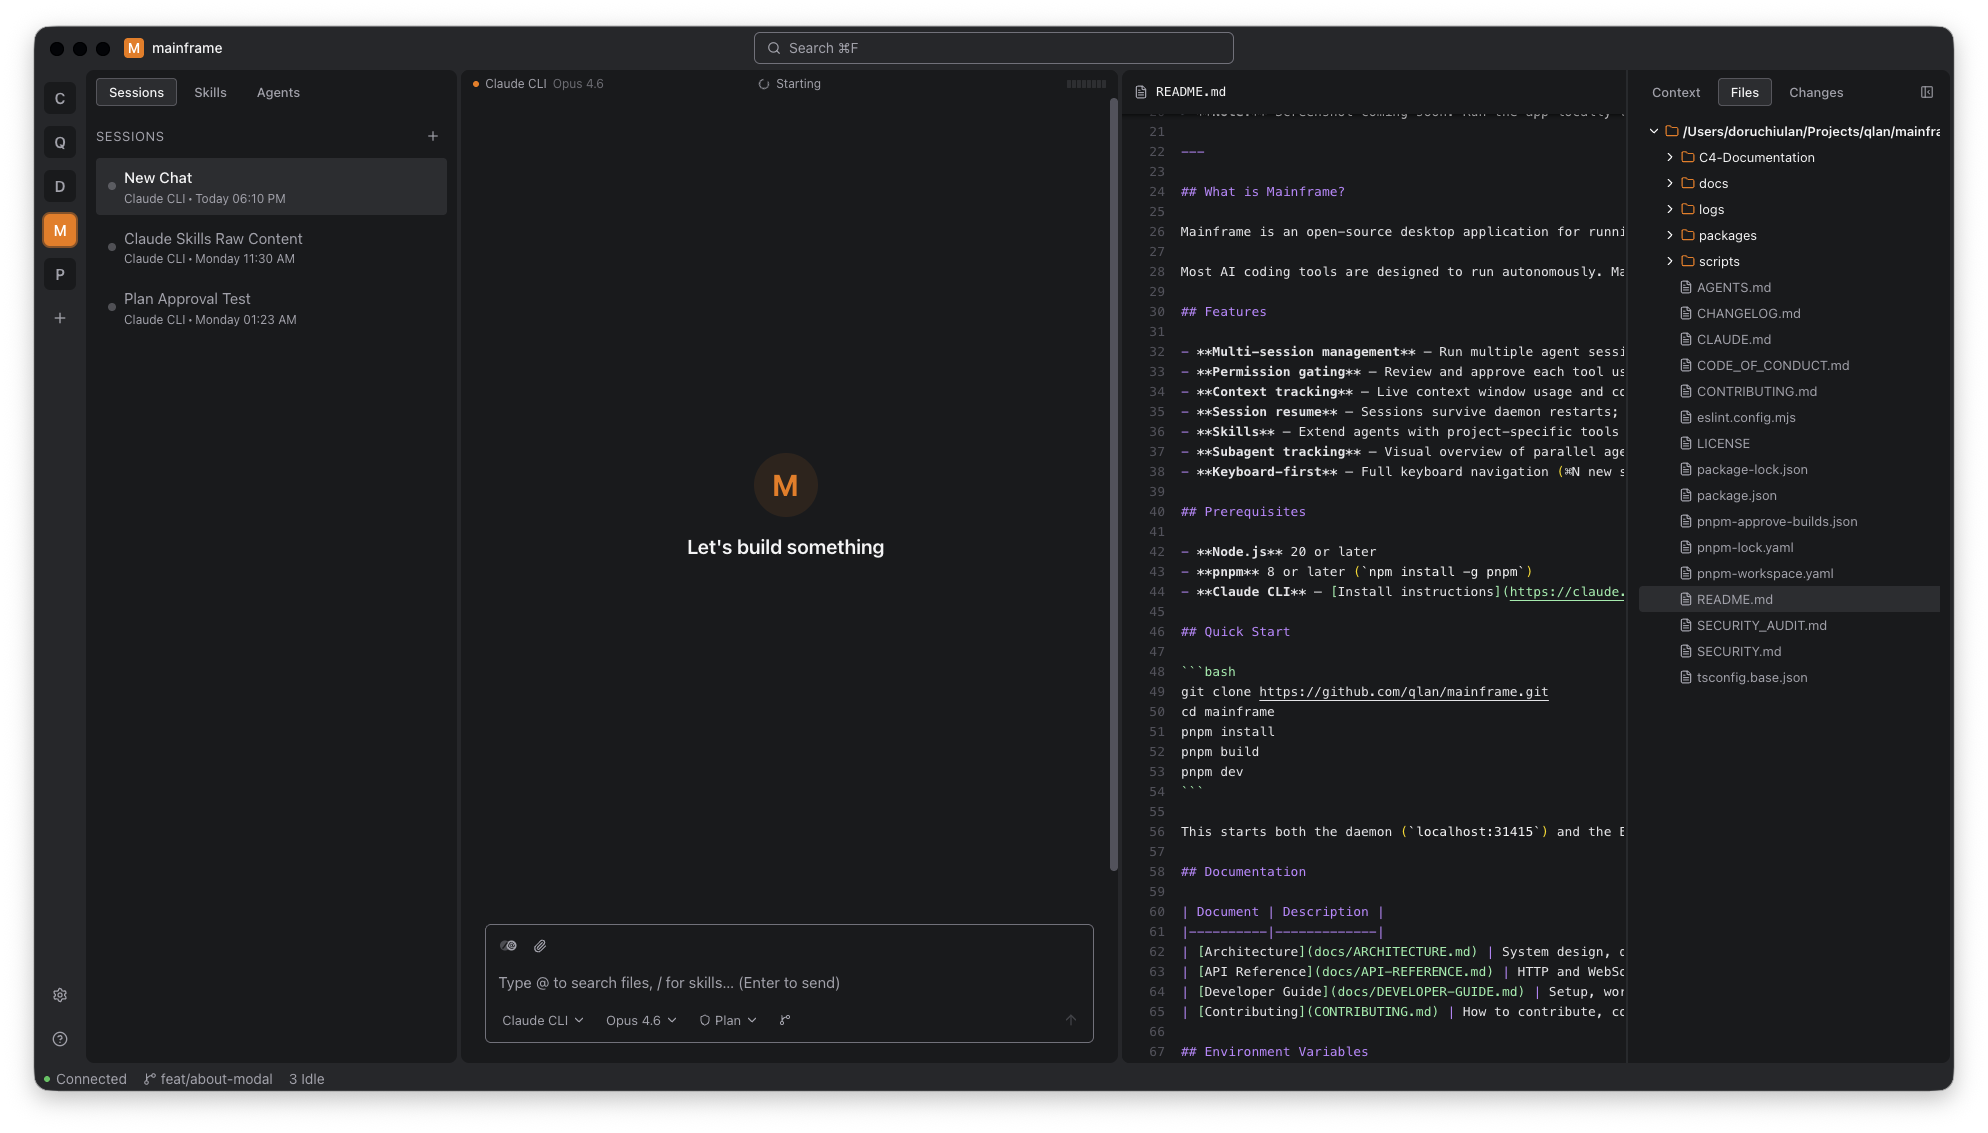
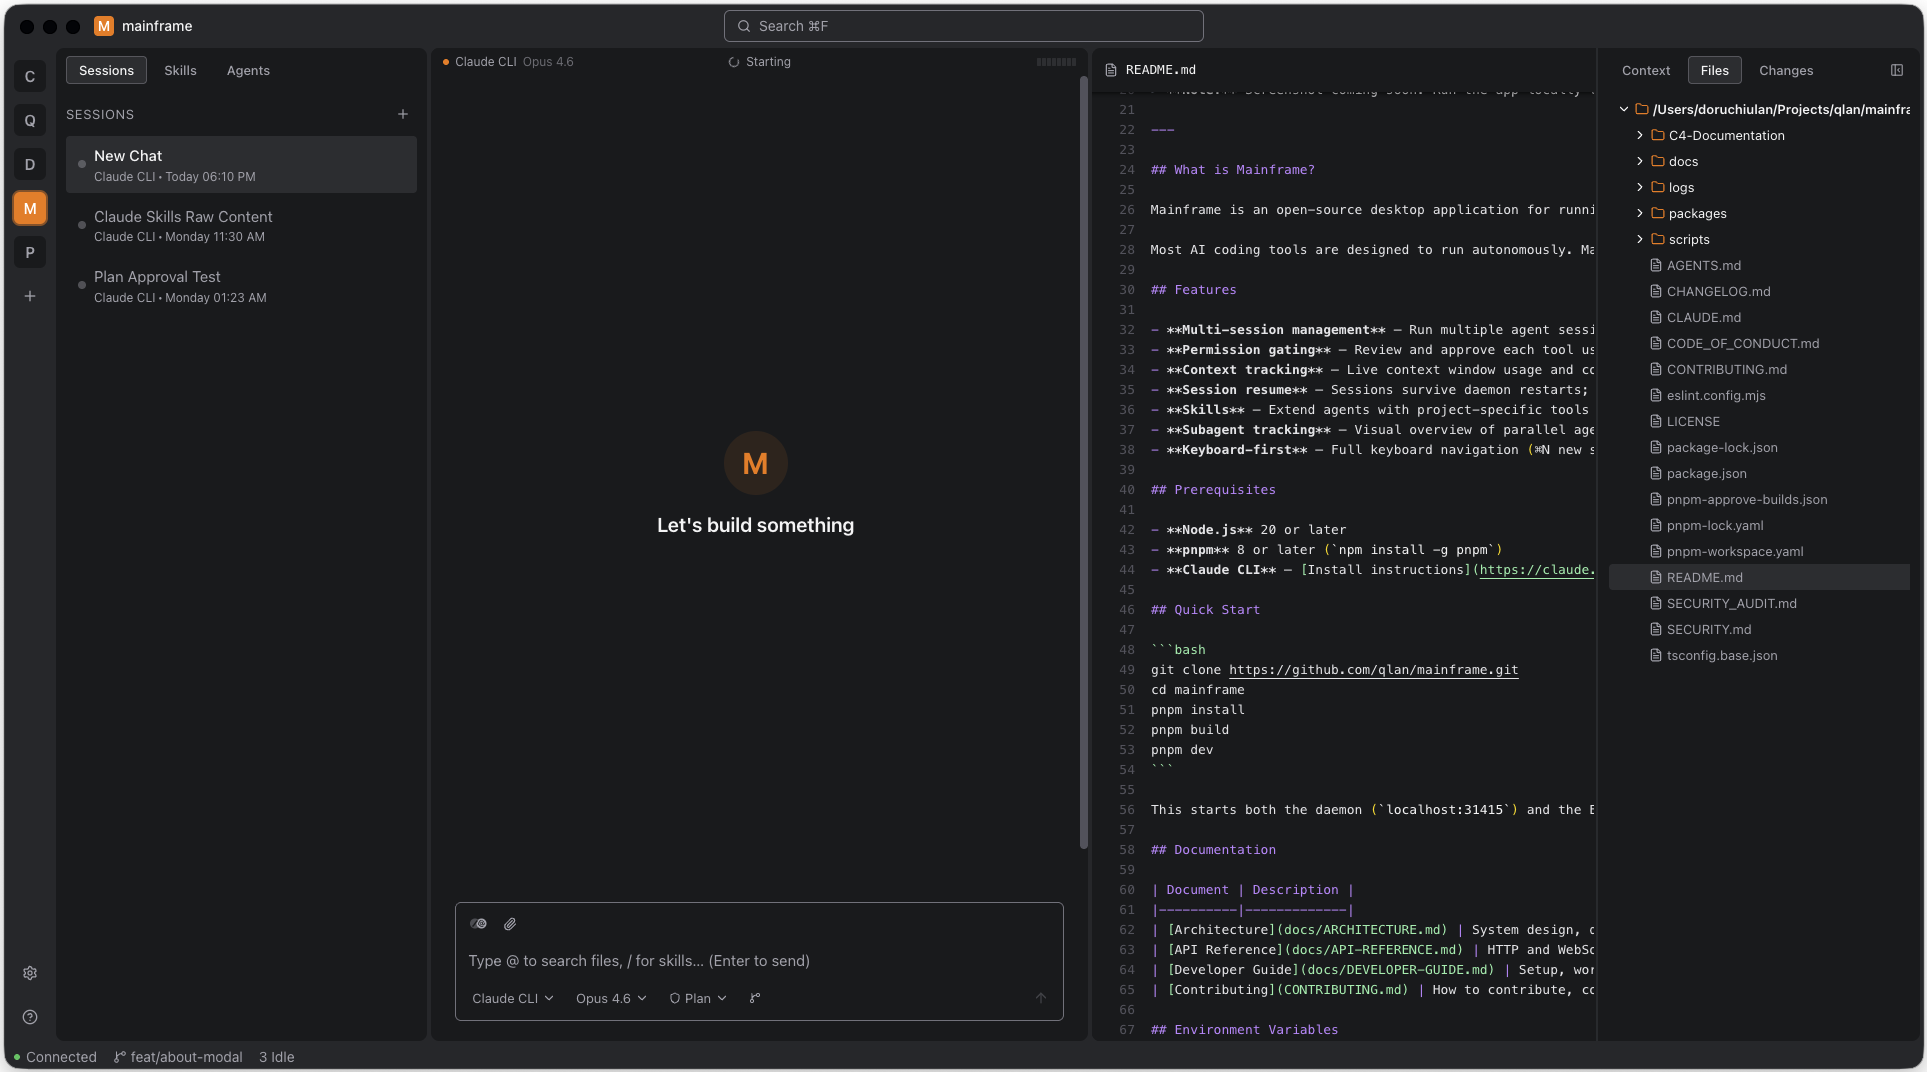
docs: add mobile screenshot, align with desktop (#32)
* docs: add plugin developer guide, update README and docs

Add comprehensive Plugin Developer Guide covering manifest schema,
Plugin Context API, database, HTTP routes, UI panels, event bus,
attachments, config, services, adapter plugins, file layout, and
security model.

Update README with plugin system overview, mobile pairing instructions,
and correct Docker image URL (ghcr.io). Refresh CONTRIBUTING,
ARCHITECTURE, API-REFERENCE, and DEVELOPER-GUIDE to reflect current
codebase (plugins, mobile, tunnels, CLI commands).

* leftovers

* docs: fix pairing instructions to match actual implementation

Desktop has no pairing UI — pairing is done via the daemon CLI only.
Remove fictional Settings UI flow and consolidate into CLI instructions.

* Revert "docs: fix pairing instructions to match actual implementation"

This reverts commit 6fca2d2d2330692c4b425a72b16b2ccd1821df6d.

* docs: align desktop and mobile screenshots to same height

* docs: trim transparent padding from mobile screenshot

* docs: use table layout for aligned desktop + mobile screenshots

* docs: remove table borders, bump mobile screenshot size

* docs: use borderless table for vertically centered screenshots

* docs: use inline CSS instead of HTML attributes for screenshot table

* docs: drop table, use equal height for both screenshots

GitHub strips inline CSS from tables, causing visible borders.
Use <picture> tags in a centered <p> with matching height instead.
[…]

Changed region(s): [[0.0, 0.0, 1.0, 1.0], [0.3425, 0.4002, 0.4359, 0.4925], [0.2491, 0.0616, 0.2802, 0.0924]]

diff --git a/README.md b/README.md
@@ -14,7 +14,13 @@
 </p>
 
 <p align="center">
-  <img src="docs/screenshot.png" alt="Mainframe screenshot" width="860">
+  <picture>
+    <img src="docs/screenshot.png" alt="Mainframe desktop" height="440">
+  </picture>
+  &nbsp;&nbsp;
+  <picture>
+    <img src="docs/screenshot-mobile.png" alt="Mainframe mobile" height="440">
+  </picture>
 </p>
 
 ---
